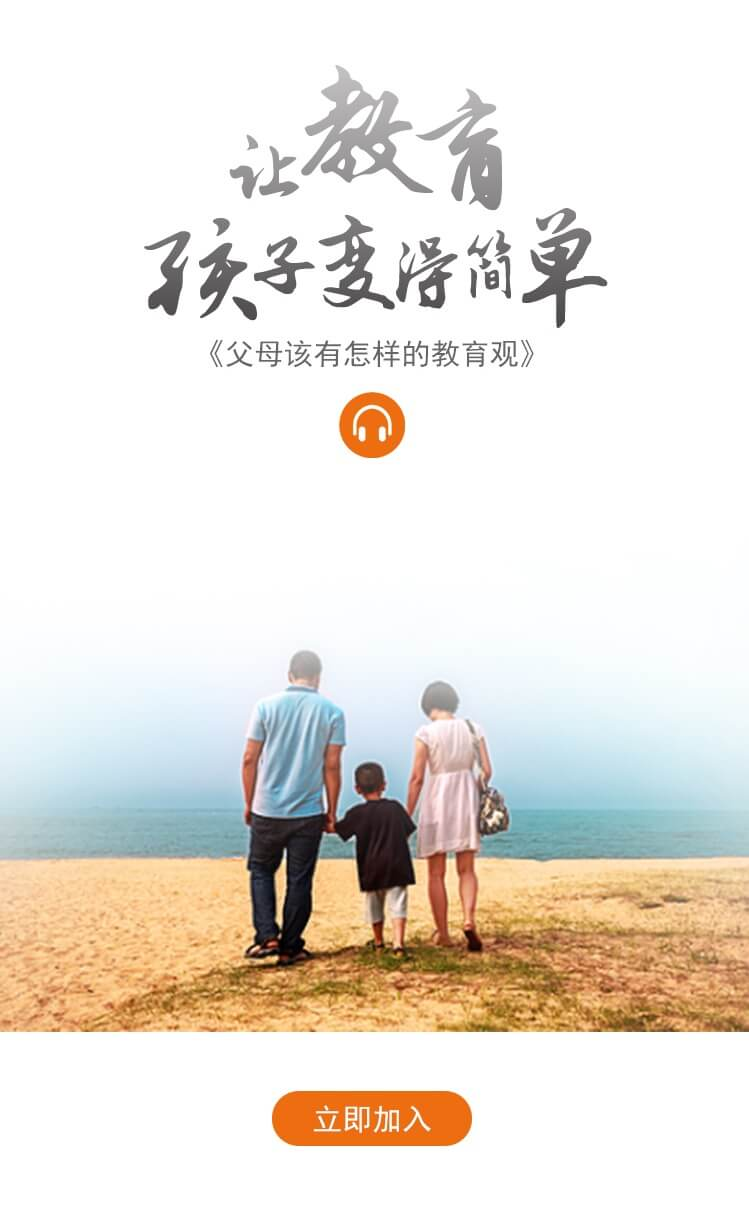
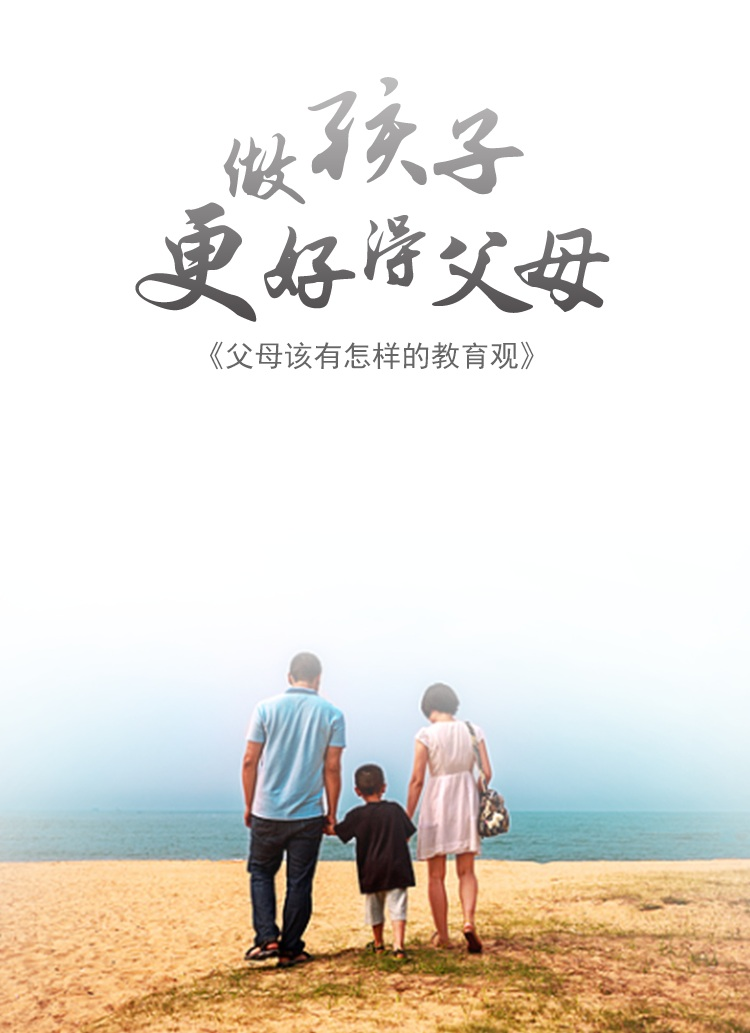
音频页自动播放

diff --git a/resources/views/share/hot.blade.php b/resources/views/share/hot.blade.php
@@ -1,17 +1,68 @@
 @extends('layout.default')
 @section('content')
 
-<div id="subject">
-    <div id="main">
-        <div class="share-love-hot">
-            <a href="{{route('article',['id'=>6])}}"><img src="/images/share/yinpinhaibao.jpg" alt=""/></a>
+<style>
+
+body{
+	background-color: #fff
+}
+
+.playing{
+    -webkit-animation:rotateImg 6s linear infinite;
+    width: 80px ;
+    height: 80px;
+    vertical-align: middle;
+}
+
+@keyframes rotateImg {
+  0% {transform : rotate(0deg);}
+  100% {transform : rotate(360deg);}
+}
+
+@-webkit-keyframes rotateImg {
+    0%{-webkit-transform : rotate(0deg);}
+  100%{-webkit-transform : rotate(360deg);}
+}
+</style>
+
+<div id="subject" >
+    <div id="main" >
+        <div class="share-love-hot" style="position:relative">
+            <img src="/images/share/yinpinhaibao.jpg" alt=""/>
+            <div style="position:absolute;top:12rem;z-index:10;display:flex;width:100%;justify-content: center;">
+            	<img id="play-img" onclick="playPause()" src="/images/share/audio-play.png" class="playing" style="width:2.06rem"/>
+            </div>
         </div>
+        <div style="text-align:center">
+        	<a href="{{route('article',['id'=>6])}}">
+        		<img style="width:6.25rem;height:1.71rem;margin-top:1rem" src="/images/share/join-btn.png"/>
+        	</a>
+        </div>
+        <audio id="audio1" loop="loop" style="display: none" src="http://oflmtu502.bkt.clouddn.com/%E9%9F%B3%E9%A2%91%20%E6%95%99%E8%82%B2%E8%A7%82.mp3">
+        </audio>
     </div>
 </div>
 
 
 @endsection
 @section('script')
+<script type="text/javascript">
+var audio1 = document.getElementById('audio1');
+function playPause(){
+    if(audio1.paused){
+    	audio1.play();
+    	$('#play-img').addClass('playing');
+    	$('#play-img').attr('src','/images/share/audio-play.png');
+    }else{
+    	audio1.pause();
+    	$('#play-img').removeClass('playing');
+    	$('#play-img').attr('src','/images/share/audio-pause.png');
+    }
+}
+$(document).ready(function(){
+	audio1.play();
+});
 
+</script>
    	
 @endsection

diff --git a/resources/views/user/login.blade.php b/resources/views/user/login.blade.php
@@ -21,7 +21,7 @@
                     <input type='hidden' name='invite_user' value="{{$invite_user}}">
                     
                     <div class="login-form" style="color: #999;font-size:0.75rem;margin:4.16rem 1.2rem 1rem 1.2rem;padding:0 0.75rem;background-color:#fff">
-               			<div class="tip" style="padding-top: 0.75rem;padding-bottom: 1.8rem;">开通成功！为保障您的账号安全，请绑定手机号。</div>
+               			<div class="tip" style="padding-top: 0.75rem;padding-bottom: 1.8rem;">为保障您的账号安全，请绑定手机号。</div>
                			<table style="width:100%">
                				<tr style="height:2.62rem;border-bottom:1px #ddd solid">
                					<td><img src="/images/look/address_bg.png"/></td>
